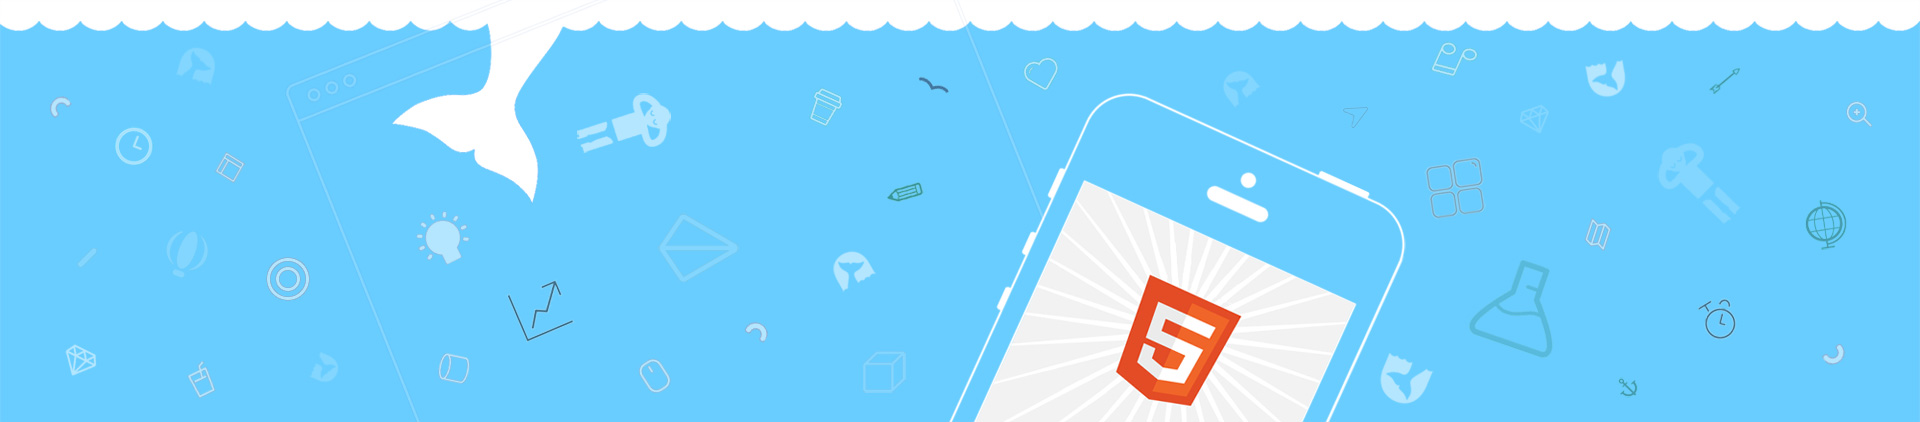
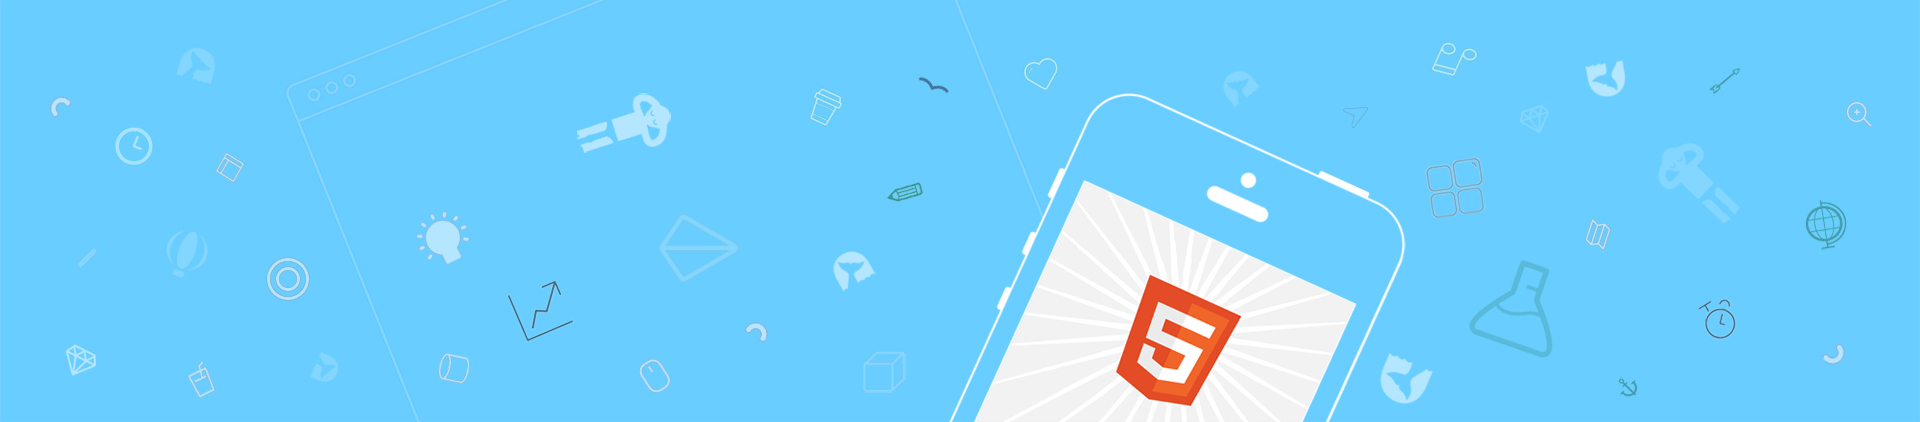
add keyframes

Changed region(s): [[0.0, 0.0, 1.0, 0.4621]]

diff --git a/_includes/css/style.css b/_includes/css/style.css
@@ -8,8 +8,6 @@
 	URL: http://alvarez.is
 	
 ################################################################# */ 
-/*@import url(http://fonts.googleapis.com/css?family=Raleway:400,700,900);
-@import url(http://fonts.googleapis.com/css?family=Lato:400,900);*/
 @import url("prettyPhoto.css") screen;
 @import url("hoverex-all.css") screen;
 @font-face {
@@ -35,8 +33,54 @@
          url('../../../assets/fonts/raleway-regular-webfont.svg#ralewayregular') format('svg');
     font-weight: normal;
     font-style: normal;
-
 }
+
+@-webkit-keyframes tail {
+	0% {
+		-webkit-transform: rotate(0);
+		transform:  rotate(0);
+	}
+	25% {
+		-webkit-transform: rotate(5deg);
+		transform:  rotate(5deg);
+	}
+	50% {
+		-webkit-transform: rotate(10deg);
+		transform:  rotate(10deg);
+	}
+	75% {
+		-webkit-transform: rotate(5deg);
+		transform:  rotate(5deg);
+	}
+	100% {
+		-webkit-transform: rotate(0);
+		transform:  rotate(0);
+	}
+}
+
+@keyframes tail {
+	0% {
+		-webkit-transform: rotate(0);
+		transform:  rotate(0);
+	}
+	25% {
+		-webkit-transform: rotate(5deg);
+		transform:  rotate(5deg);
+	}
+	50% {
+		-webkit-transform: rotate(10deg);
+		transform:  rotate(10deg);
+	}
+	75% {
+		-webkit-transform: rotate(5deg);
+		transform:  rotate(5deg);
+	}
+	100% {
+		-webkit-transform: rotate(0);
+		transform:  rotate(0);
+	}
+}
+
 
 /*	################################################################
 	1. GENERAL STRUCTURES
@@ -232,7 +276,7 @@ a:focus {
 ################################################################# */
 
 #headerwrap {
-	/*background-color: {{ site.colors.primary }};*/
+	position: relative;
 	background-image: url(../../../assets/img/bg.jpg);
 	background-repeat: no-repeat;
 	min-height: 423px;
@@ -255,6 +299,19 @@ a:focus {
 	margin: 0 auto;
 }
 
+.tail {
+	position: absolute;
+	top: 24px;
+	left: 25%;
+	width: 199px;
+	height: 182px;
+	background-image: url(../../../assets/img/tail.png);
+	background-repeat: no-repeat;
+	-webkit-animation:tail 1s linear 0.8s 1;
+	animation:tail 1s linear 0.8s 1;
+	-webkit-transform-origin: 100% 0;
+	transform-origin: 100% 0;
+}
 /* Services Wrap */
 #service {
 	color: #000;
@@ -340,7 +397,7 @@ a:focus {
 	background-position: center center;
 	min-height: 450px;
 	width: 100%;
-	
+
     -webkit-background-size: 100%;
     -moz-background-size: 100%;
     -o-background-size: 100%;

diff --git a/_includes/header.html b/_includes/header.html
@@ -1,4 +1,5 @@
 <div id="headerwrap">
+    <div class="tail"></div>
     <div class="container">
         <div class="row">
             <div class="col-lg-8 col-lg-offset-2">
